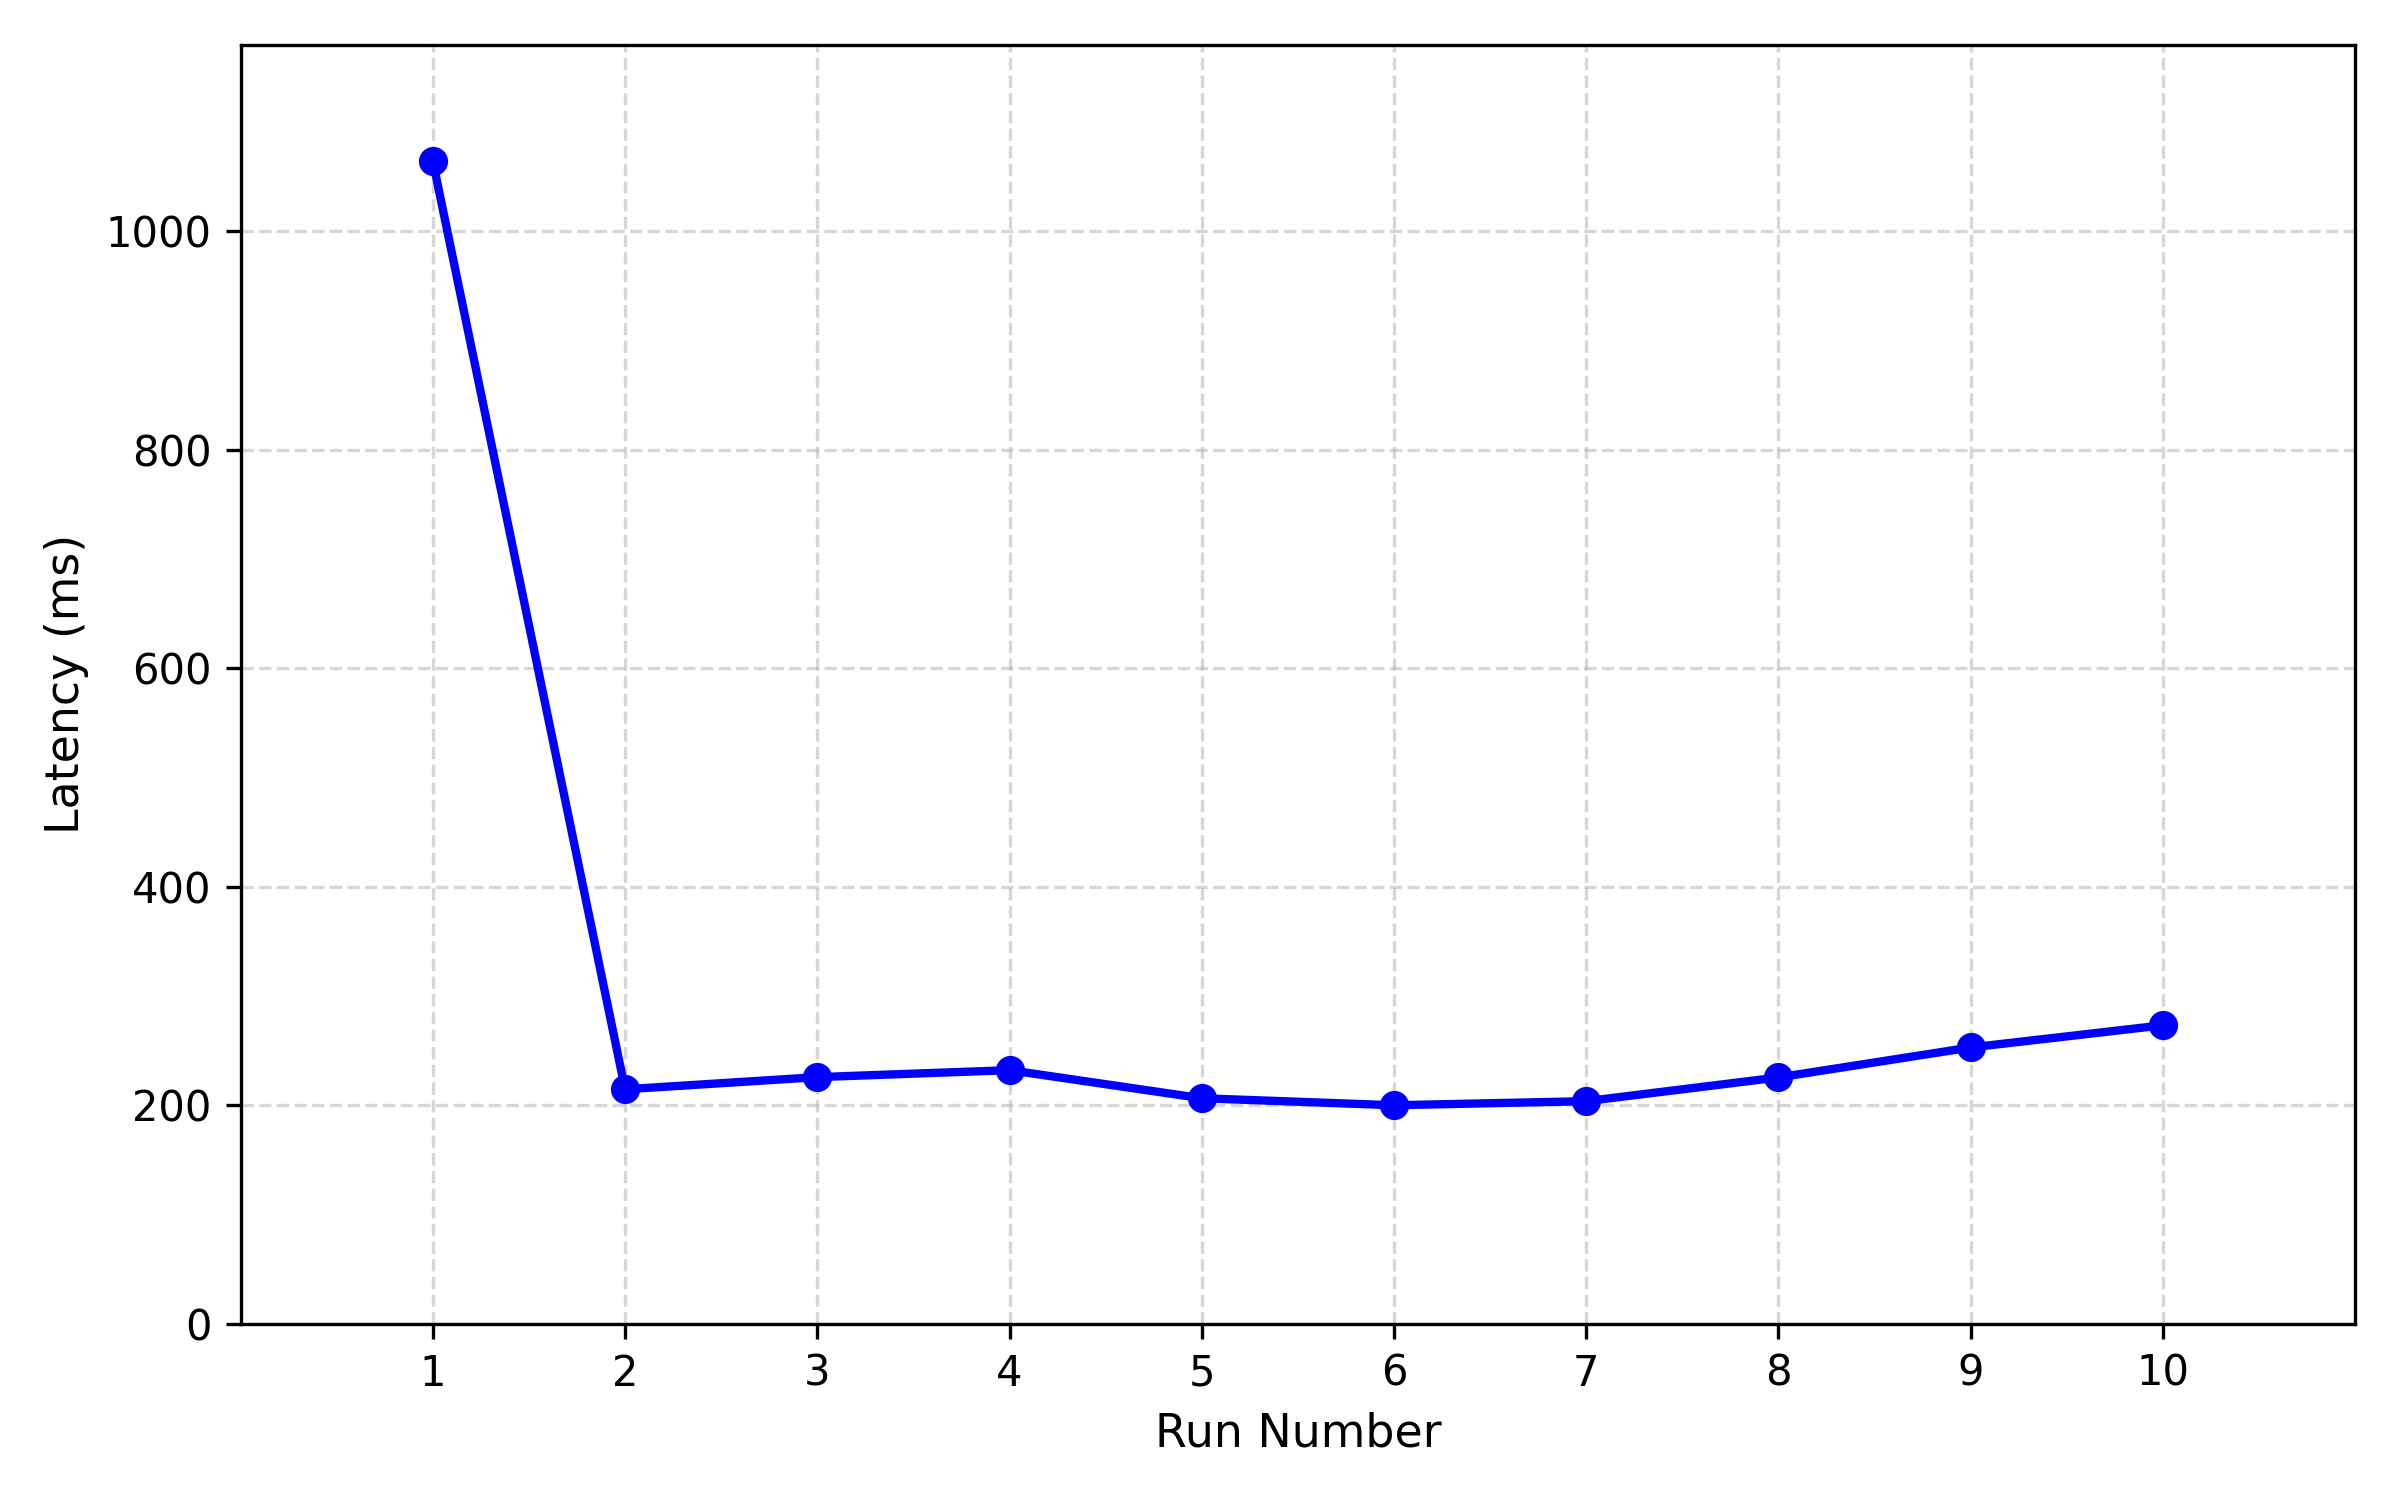
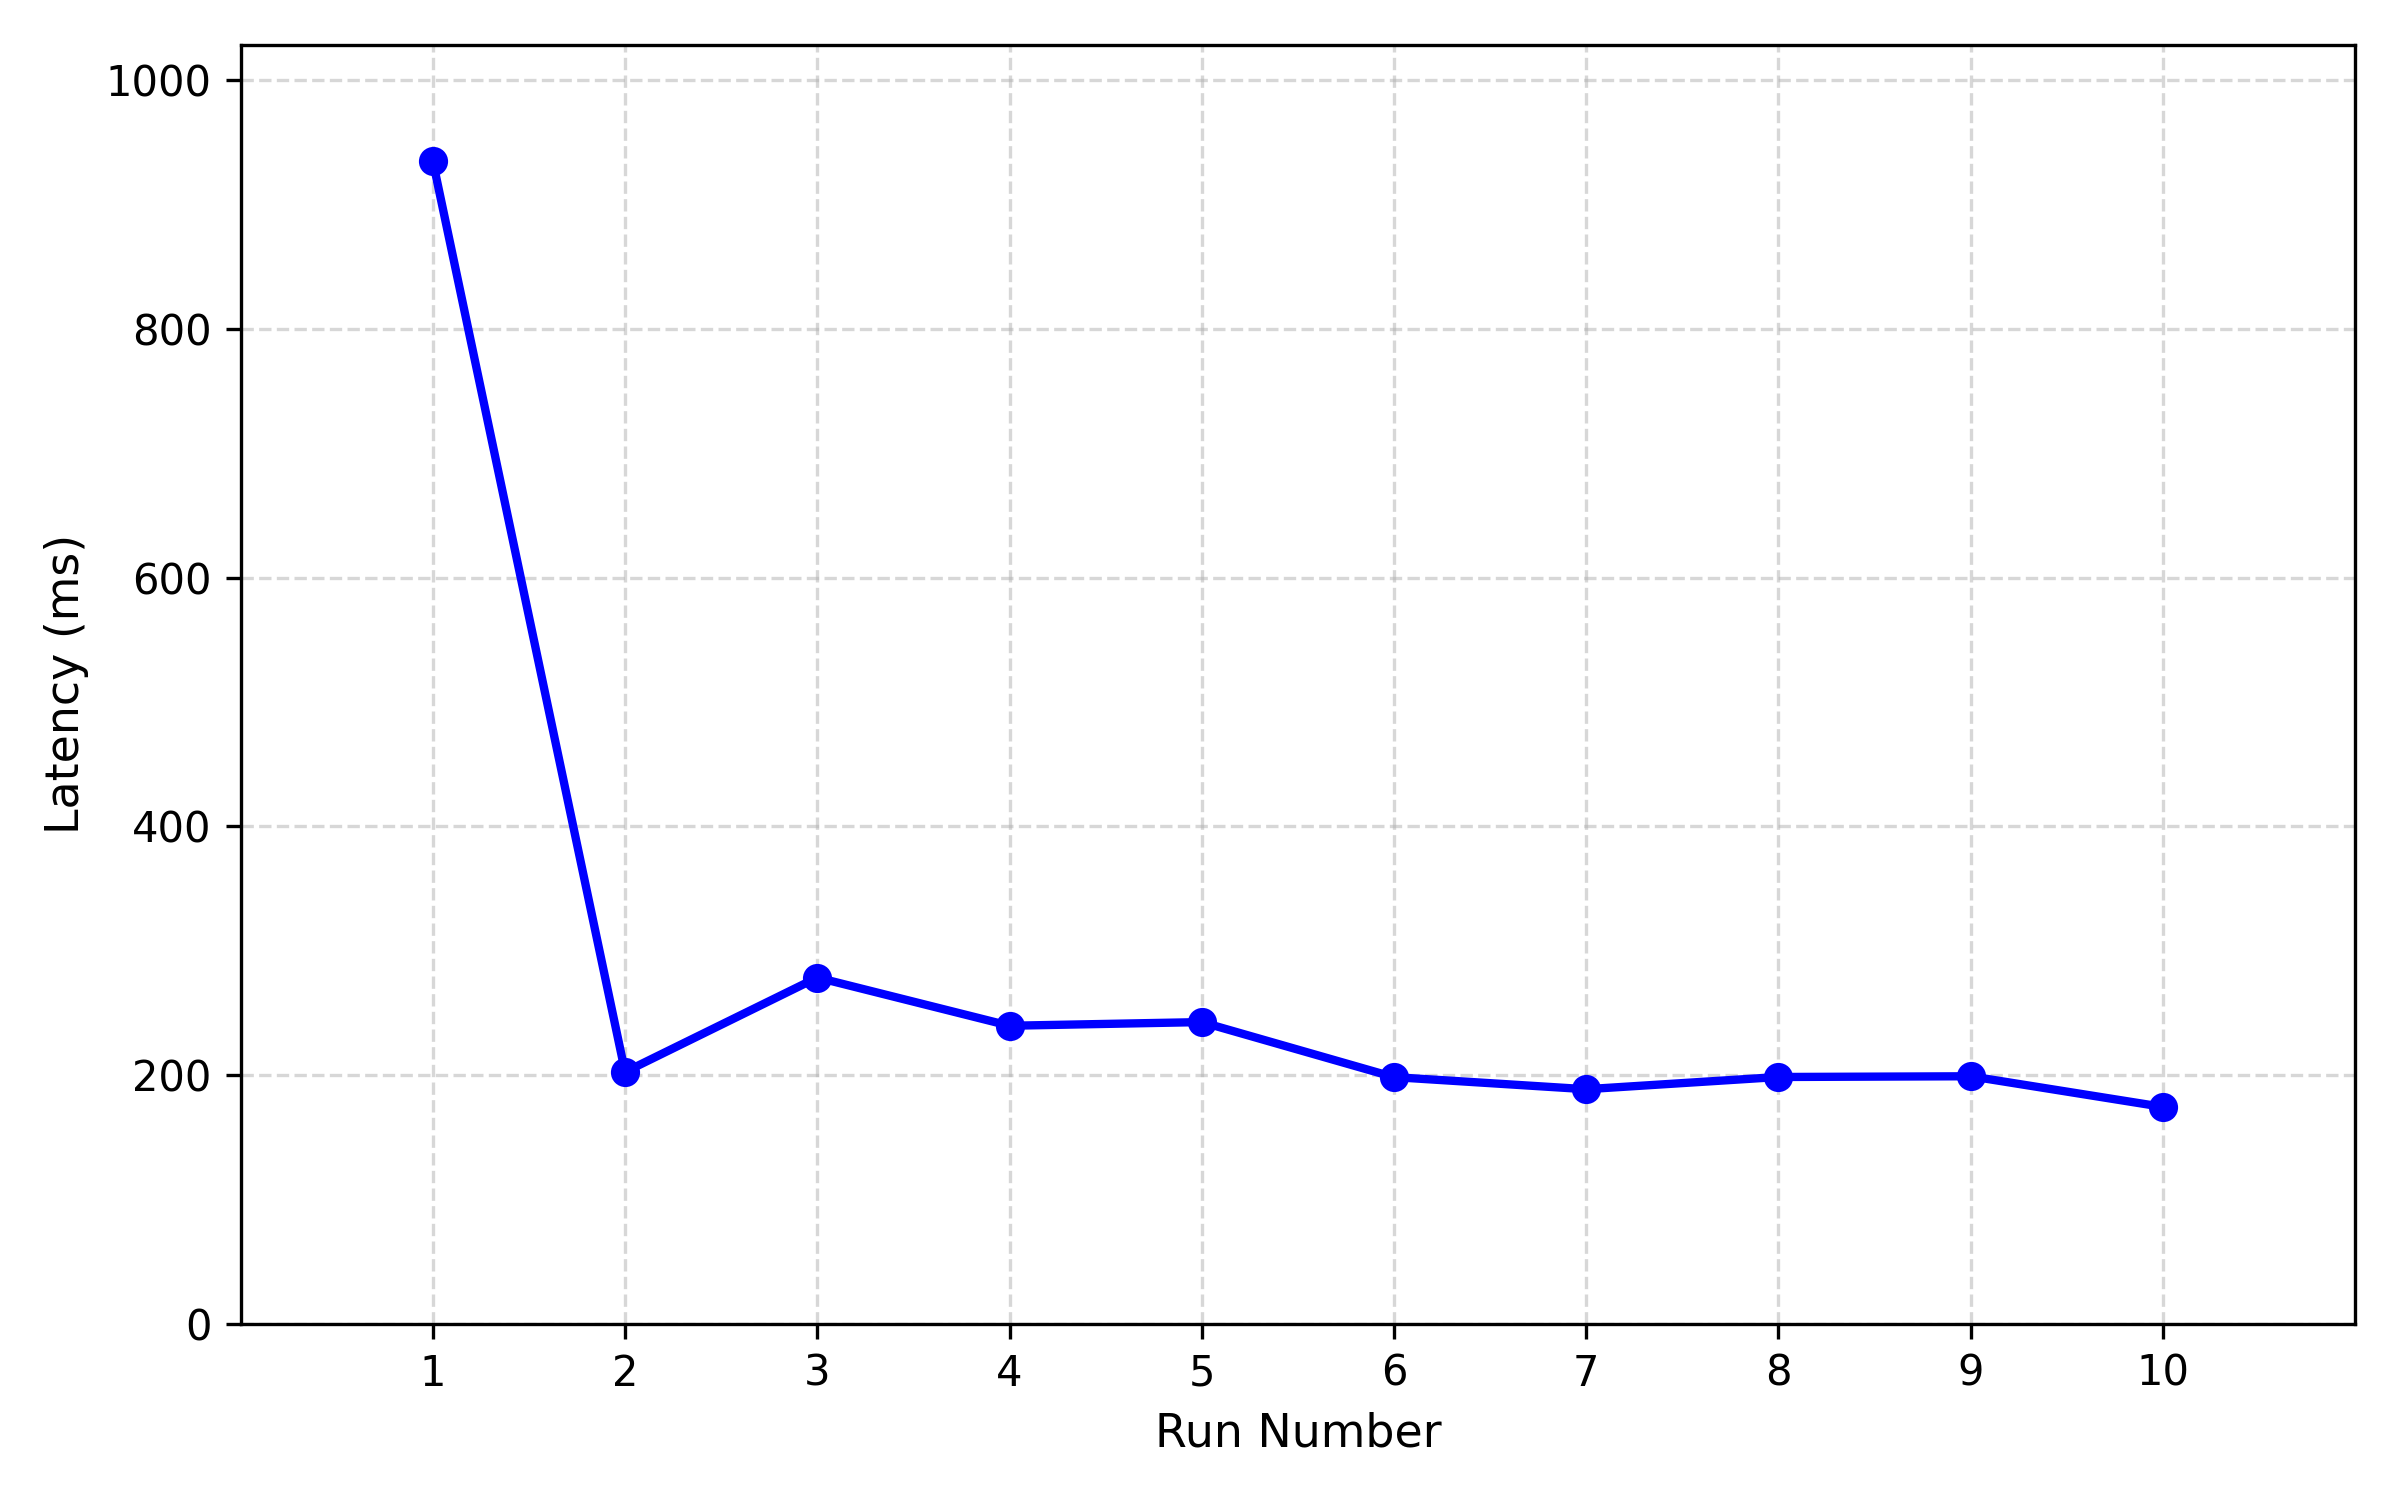
fix: 로그인 요청에 필요한 클래스 미리 로딩

diff --git a/src/main/java/com/wardk/meeteam_backend/global/auth/client/SejongPortalClient.java b/src/main/java/com/wardk/meeteam_backend/global/auth/client/SejongPortalClient.java
@@ -5,7 +5,6 @@ import com.wardk.meeteam_backend.global.response.ErrorCode;
 import jakarta.annotation.PreDestroy;
 import lombok.extern.slf4j.Slf4j;
 import jakarta.annotation.PostConstruct;
-import org.apache.hc.client5.http.classic.methods.HttpGet;
 import org.apache.hc.client5.http.classic.methods.HttpPost;
 import org.apache.hc.client5.http.config.ConnectionConfig;
 import org.apache.hc.client5.http.config.RequestConfig;
@@ -26,8 +25,6 @@ import org.springframework.stereotype.Component;
 
 import java.net.URLEncoder;
 import java.nio.charset.StandardCharsets;
-import java.util.ArrayList;
-import java.util.List;
 import java.util.concurrent.TimeUnit;
 
 /**
@@ -60,44 +57,23 @@ public class SejongPortalClient {
     }
 
     /**
-     * 커넥션 풀 워밍업.
-     * TCP + SSL 핸드셰이크를 미리 수행하여 첫 요청 지연을 방지합니다.
-     * 병렬 실행으로 여러 커넥션을 동시에 생성합니다.
+     * 커넥션 풀 및 클래스 로딩 워밍업.
+     * 실제 로그인 API를 호출하여 TCP + SSL 핸드셰이크와 클래스 로딩을 수행합니다.
      *
      * <p>WarmUpRunner에서 호출됩니다.</p>
      */
     public void warmUp() {
-        int warmUpCount = 2;
-        List<Thread> threads = new ArrayList<>();
+        log.info("커넥션 풀 + 클래스 로딩 워밍업 시작");
 
-        for (int i = 0; i < warmUpCount; i++) {
-            final int index = i + 1;
-            Thread t = new Thread(() -> {
-                try {
-                    HttpGet warmUpRequest = new HttpGet("https://portal.sejong.ac.kr");
-                    httpClient.execute(warmUpRequest, response -> {
-                        EntityUtils.consume(response.getEntity());
-                        return null;
-                    });
-                    log.info("커넥션 워밍업 ({}/{}) 완료", index, warmUpCount);
-                } catch (Exception e) {
-                    log.warn("커넥션 워밍업 ({}/{}) 실패: {}", index, warmUpCount, e.getMessage());
-                }
-            });
-            threads.add(t);
-            t.start();
+        try {
+            // 실제 로그인 API 호출 (더미 계정 - 실패해도 OK)
+            // HttpPost, URLEncoder, StringEntity 등 모든 클래스 로딩
+            authenticate("_warmup_", "_warmup_");
+        } catch (Exception ignored) {
+            // 인증 실패는 예상된 것 - 무시
         }
 
-        // 모든 워밍업 완료 대기
-        for (Thread t : threads) {
-            try {
-                t.join();
-            } catch (InterruptedException e) {
-                Thread.currentThread().interrupt();
-            }
-        }
-
-        log.info("SejongPortalClient 워밍업 완료 - available: {}",
+        log.info("워밍업 완료 - 커넥션 풀: available={}",
                 connectionManager.getTotalStats().getAvailable());
     }
 